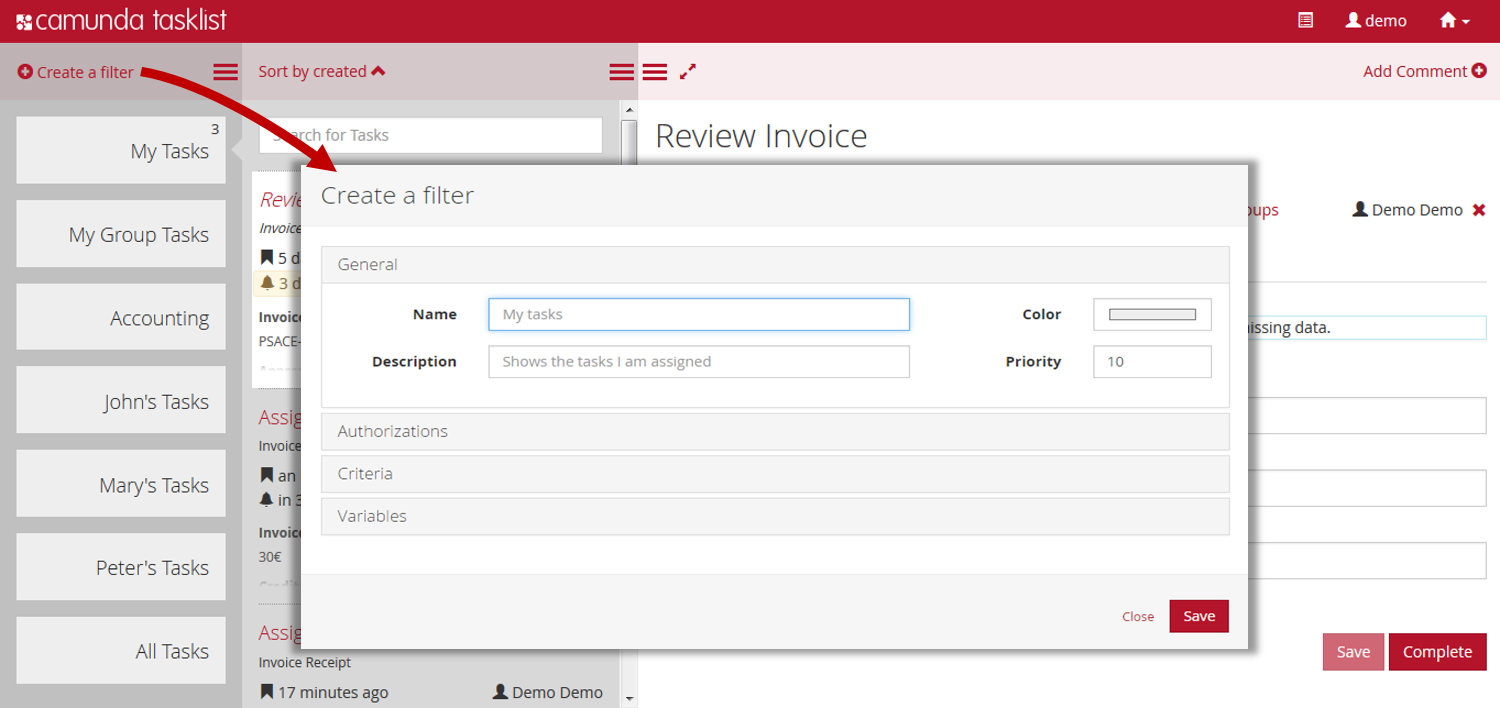
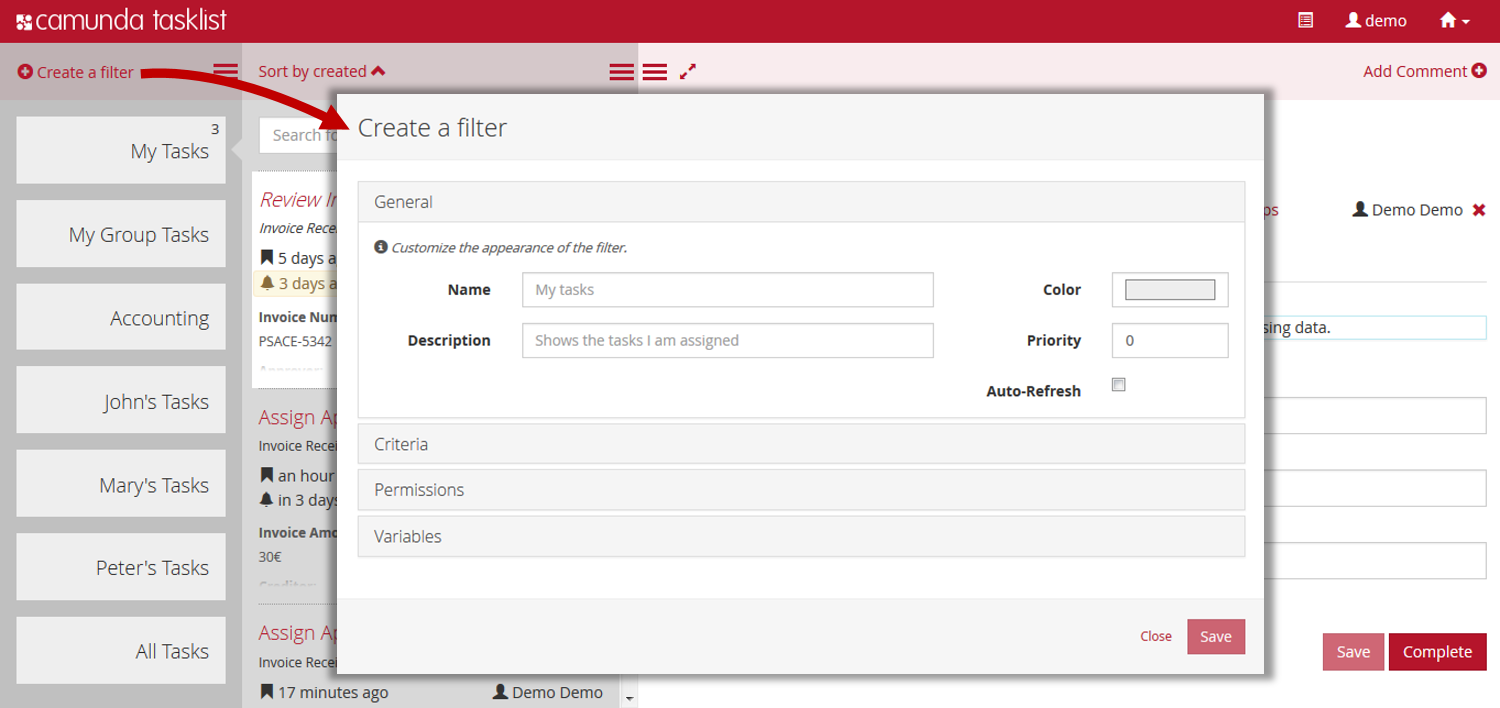
fix(userguide): align tasklist docs with 7.2.0
related to #CAM-3210

Changed region(s): [[0.092, 0.0932, 0.8587, 0.9633]]

diff --git a/site/src/documents/guides/user-guide/chapters/11-tasklist/04-Filters.html.md b/site/src/documents/guides/user-guide/chapters/11-tasklist/04-Filters.html.md
@@ -11,11 +11,11 @@ category: 'Tasklist'
   </div>
   <div class="col-xs-6 col-sm-6 col-md-9">
     <p>
-      In the Tasklist, you can create and select Filters. You can use these Filters to create lists of tasks, sorted by specified criteria. To create a filter, select <i>New Filter</i>. You will then see a screen as depicted in the image to the left. You have several options to configure your filter:
+      In the Tasklist, you can create and select Filters. You can use these Filters to create lists of tasks, sorted by specified criteria. To create a filter, select <i>Create a Filter</i>. You will then see a screen as depicted in the image to the left. You have several options to configure your filter:
         <ul>
-          <li><strong>General</strong> - Here you can specify the name and description of the filter as well as assigning a color. Assign a priority to determine the order in which the filters are displayed on the dashboard</li>
-          <li><strong>Authorizations</strong> - Here you can specify which users can see the filter. The authorization types <i>GLOBAL</i>, <i>ALLOW</i> and <i>DENY</i> are available. <i>GLOBAL</i> authorization is valid for all Tasklist users, while the <i>ALLOW</i> and <i>DENY</i> authorizations can be used to set user rights for specific users or user groups. For each authorization you can set the permissions <i>ALL</i>, <i>READ</i>, <i>UPDATE</i> and <i>DELETE</i>.</li>
-          <li><strong>Criteria</strong> - Here you can specify which tasks will be displayed when selecting the filter. A Key and a Value must be inserted. There are various Keys which can be selected from the categories <i>Process Instance (ID, Business Key)</i>, <i>Process Definition (ID, Key, Name)</i>, <i>User/Group (Assignee, Owner, Candidate User or Group, Involved user, Unassigned, Delegation State)</i>, <i>Task (Definition Key, Name, Description, Priority)</i>, <i>Dates (Created date, Due date, Follow up date)</i> and <i>Other (Process Instance state, Activity instance ID, Execution ID)</i>. Keys marked with a * accept expressions as value.</li>
+          <li><strong>General</strong> - Here you can specify the name and description of the filter as well as assigning a color. Assign a priority to determine the order in which the filters are displayed on the dashboard. You can choose to have the filter automatically refresh the filter results by selecting the checkbox <i> Auto-Refresh</i>.</li>
+          <li><strong>Permissions</strong> - Here you can specify which users or groups can see the filter. You can set the filter as globally accessible by selecting the checkbox <i>Accessible by all users</i>. A permission that is set here is equivalent to a <i>READ</i> permission which can also be set in <a href="ref:#admin">Camunda Admin</a>. In case you want to assign other permissions, you can do so in the <a href="ref:#admin-administrator-account-authorizations">Authorizations</a> tab in Camunda Admin.</li>
+          <li><strong>Criteria</strong> - Here you can specify which tasks will be displayed when selecting the filter. A Key and a Value must be inserted. There are various Keys which can be selected from the categories <i>Process Instance (ID, Business Key)</i>, <i>Process Definition (ID, Key, Name)</i>, <i>Case Instance (ID, Business Key)</i>, <i>Case Definition (ID, Key, Name)</i>, <i>Other (Process Instance state, Activity instance ID, Execution ID)</i>, <i>User/Group (Assignee, Owner, Candidate User or Group, Involved user, Unassigned, Delegation State)</i>, <i>Task (Definition Key, Name, Description, Priority)</i> and <i>Dates (Created date, Due date, Follow up date)</i>. Keys marked with a * accept expressions as value.</li>
           <li><strong>Variables</strong> - Here you can specify which variables are displayed in the <a href="ref:#tasklist-dashboard-filter-results">filter results</a> section of the <a href="ref:#tasklist-dashboard">dashboard</a>. Setting variables here has no influence on which tasks are displayed. To set the variables, you need to insert a <i>Name</i>, which is the coded name of the variable, and a <i>Label</i>, which defines what the variable will be named in the <a href="ref:#tasklist-dashboard-filter-results">filter results</a>.</li>
         </ul>
     </p>

diff --git a/site/src/documents/guides/user-guide/chapters/11-tasklist/03-dashboard.html.md b/site/src/documents/guides/user-guide/chapters/11-tasklist/03-dashboard.html.md
@@ -49,7 +49,16 @@ category: 'Tasklist'
 
 ### Search for Tasks by variable
 
-Above the filter results, you have the option of searching for user tasks by variable within the selected filter results. To do so, click in the search box and select which variables to search for, either a Process Variable, a Task Variable or a Case Variable. Next you need to insert both a Property and a Value for the variable. By default the operator is _equal to_ (=). You can toggle the operator and select _not equal to_ (!=), _greater than_ (>), _lower than_ (<), _equal to or greater than_ (>=) or _equal to or lower than_ (<=). Depending on the data type of your search, the operators can vary slightly. If you change the filter selection, the search will be performed on the selected filter and the results will be updated accordingly.
+<div class="row">
+  <div class="col-xs-6 col-sm-6 col-md-3">
+    <img data-img-thumb src="ref:asset:/assets/img/implementation-tasklist/tasklist-variable-filter.png" />
+  </div>
+  <div class="col-xs-6 col-sm-6 col-md-9">
+    <p>
+      Above the filter results, you have the option of searching for user tasks by variable within the selected filter results. To do so, click in the search box and select which variables to search for, either a Process Variable, a Task Variable or a Case Variable. Next you need to insert both a Property and a Value for the variable. By default the operator is _equal to_ (=). You can toggle the operator and select _not equal to_ (!=), _greater than_ (>), _lower than_ (<), _equal to or greater than_ (>=) or _equal to or lower than_ (<=). Depending on the data type of your search, the operators can vary slightly. If you change the filter selection, the search will be performed on the selected filter and the results will be updated accordingly.
+    </p>
+  </div>
+</div>
 
 ## Task view
 
